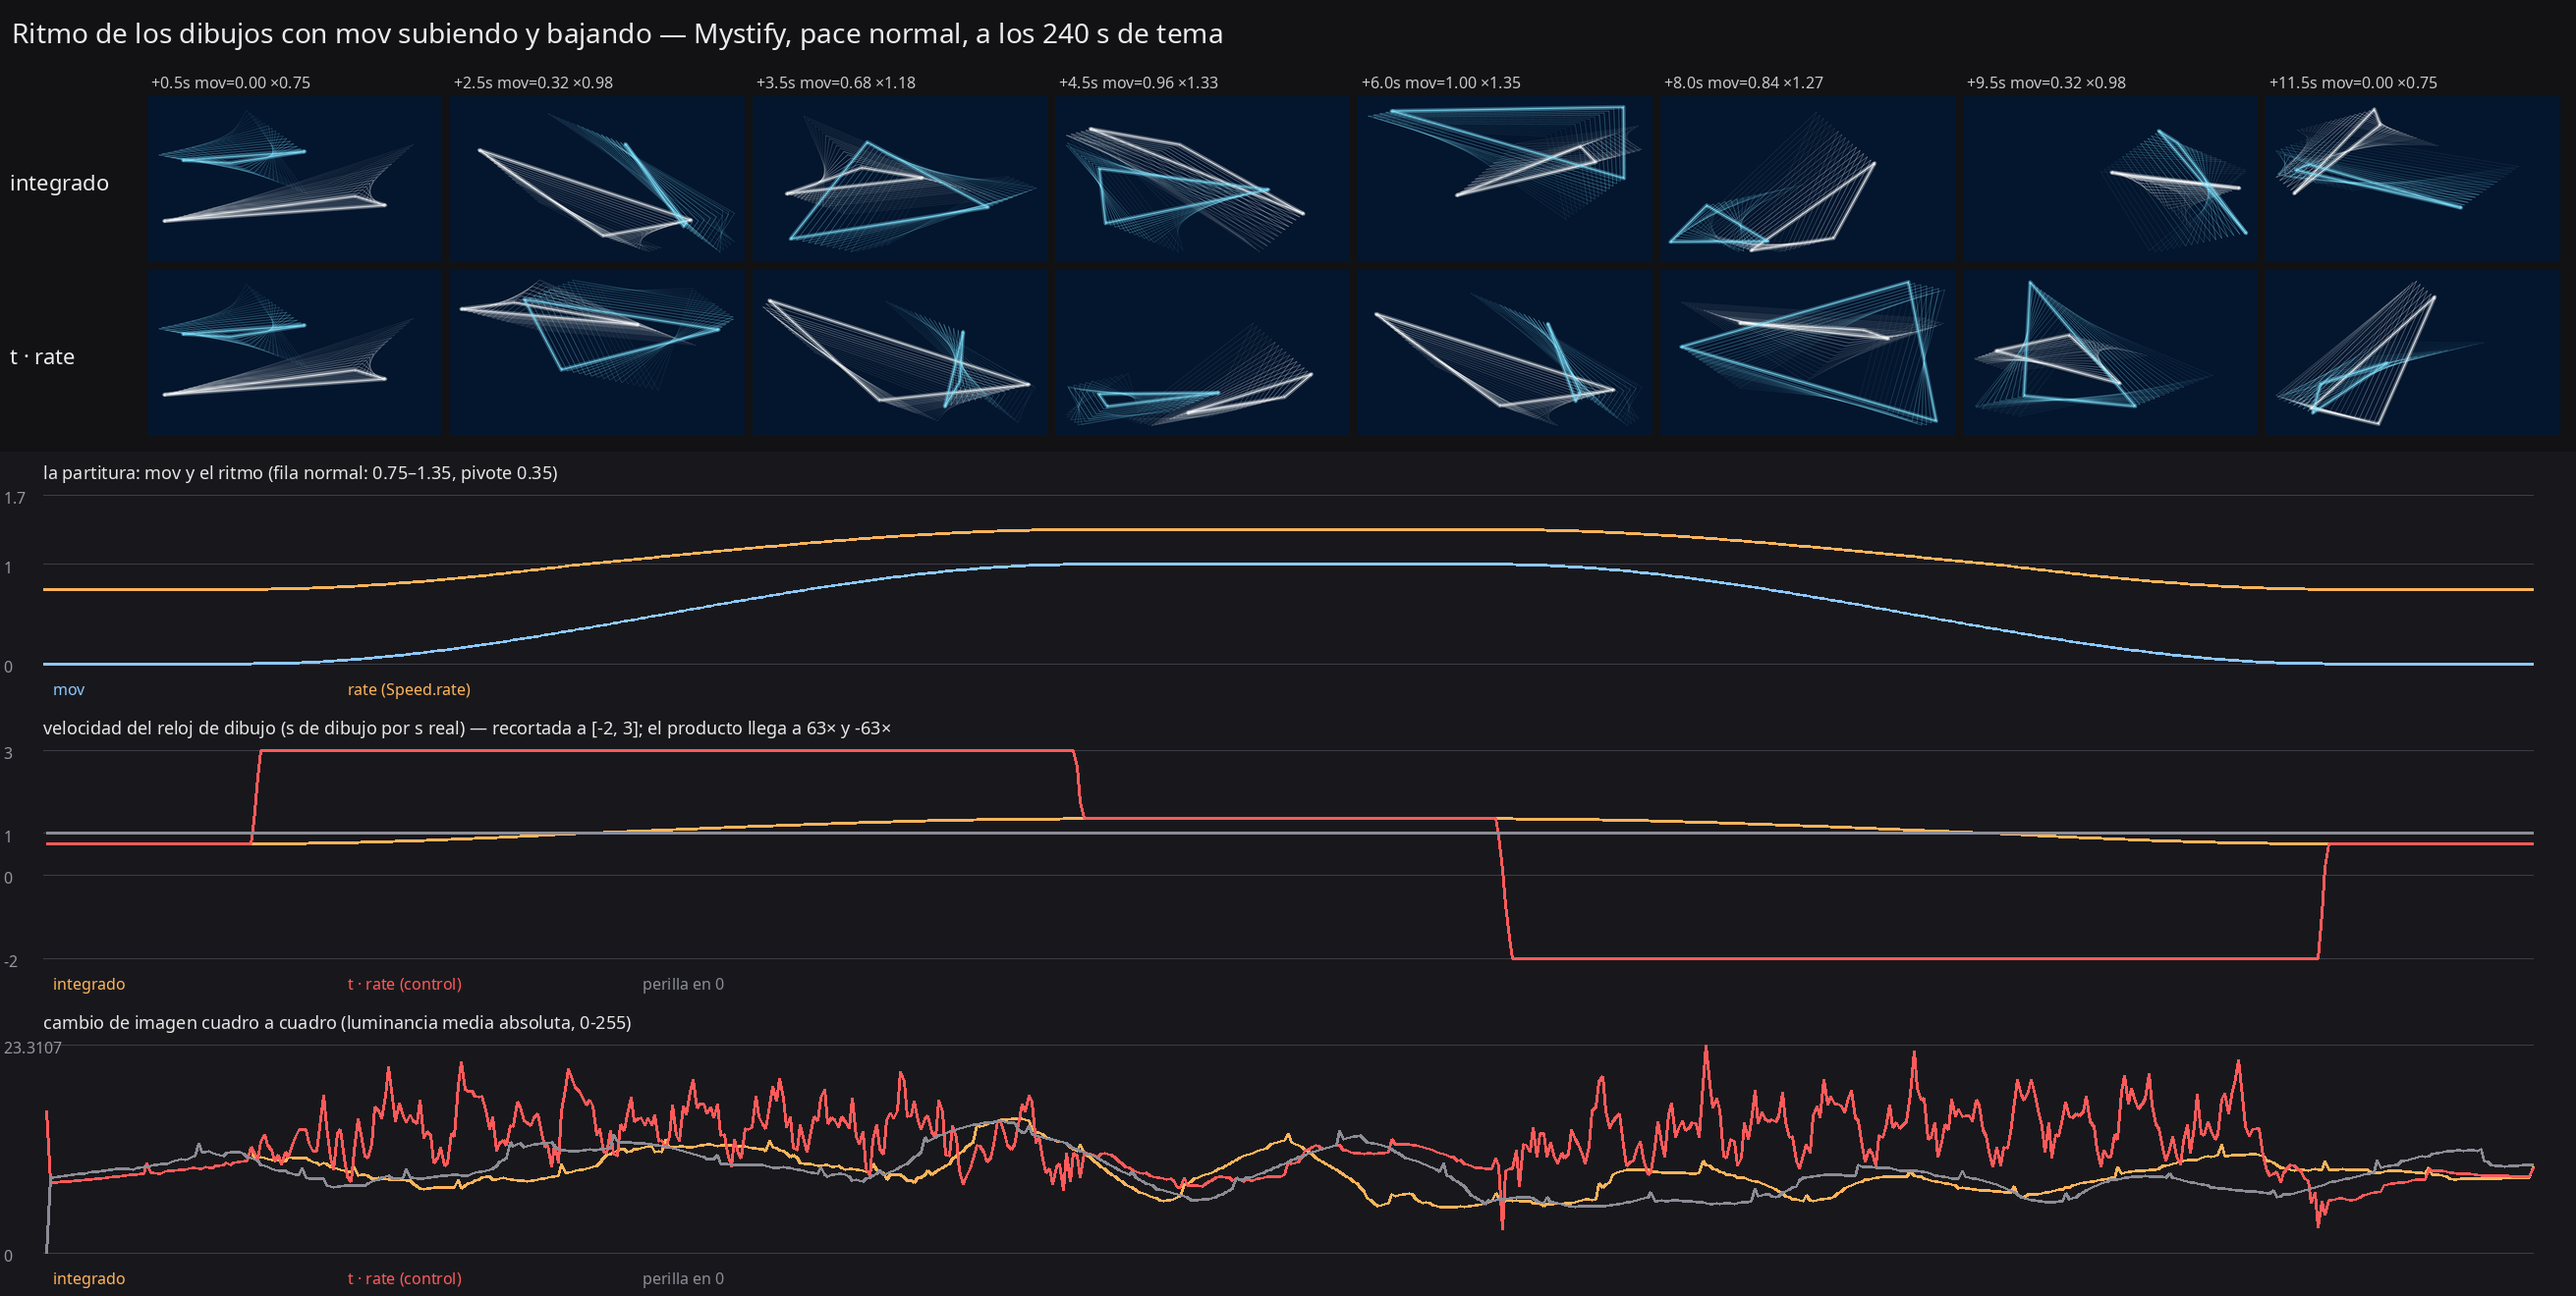
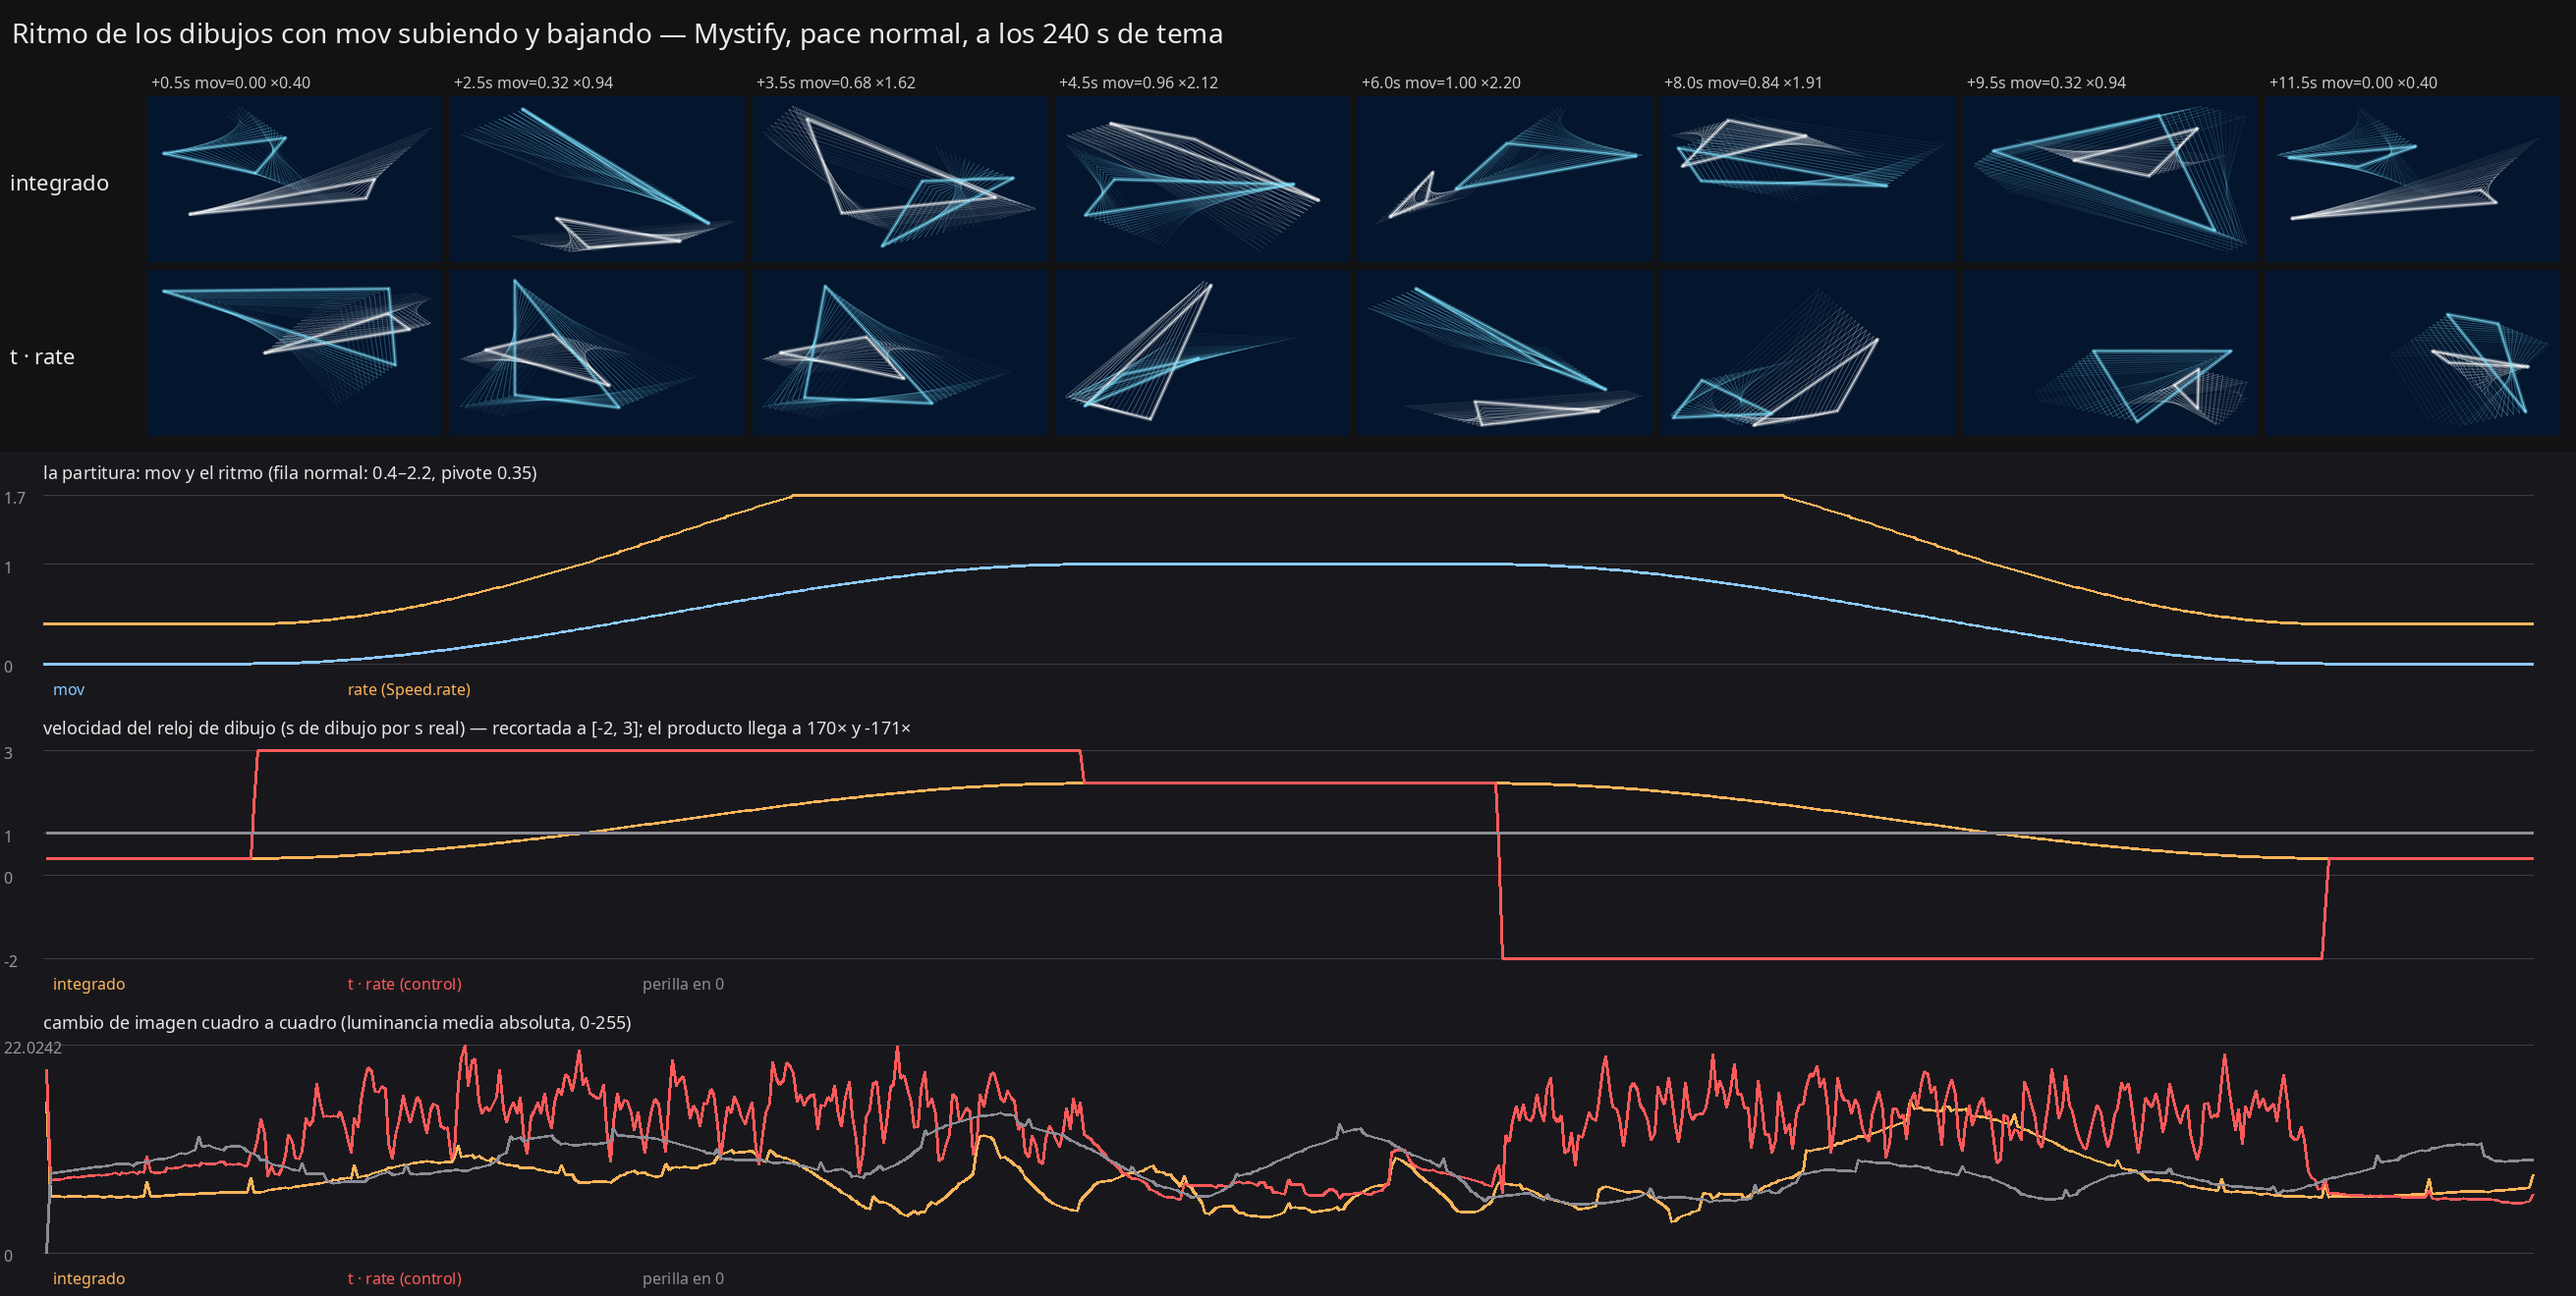
docs(movimiento-visual): ronda 2, mov medido y percentiles

diff --git a/docs/tanda8-estado/movimiento-visual.md b/docs/tanda8-estado/movimiento-visual.md
@@ -104,3 +104,22 @@ Resultado, pace normal, 721 cuadros a 60 fps:
   de `movimiento.md` (parejo ≈ 0.2, ocupado ≈ 0.75-0.8), no de haberlo visto.
 - Las entradas y el shader quedaron afuera a propósito (arriba). Si Ferox quiere que la ENTRADA de la
   frase también siga el pasaje, es otra discusión (rompe "UN lenguaje de movimiento").
+
+## Ronda 2: "no se nota" (Ferox, con Vivaldi)
+
+Medido en el sistema vivo (`qs.log` + `.1`, 99 muestras de `mov`, Vivaldi): **p1 0.63, p50 0.73,
+p99 0.80**. `mov` vivía en una franja de 0.17 → con el mapeo absoluto (pivote 0.35) el rate salía
+1.0–1.2 fijo. Cambios (sólo VELOCIDAD; no se tocó frecuencia de cambios ni entradas):
+- **Rangos** (`crtPaceTable`): calm 0.60–1.50, normal 0.40–2.20, wild 0.30–2.80.
+- **Percentiles por tema** (`Speed.newStat/observe/span/fit`): histograma de `mov` (40 bins, decae
+  τ=60 s, se reinicia con `crtTrackSeed++`, muestreado a 10 Hz), p5..p95 estirado a todo el rango
+  (franja mínima 0.20 para no amplificar ruido de un tema parejo), mediana → rate 1 (pivote
+  interpolado a 0.5). Arranque: `conf` = masa/20 s mezcla del mapeo absoluto de antes al estirado.
+  Vivaldi: 0.63→~0.4×, 0.72→1×, 0.80→~2×. `crt.mov_speed` = 0 sigue siendo ritmo 1 exacto.
+  Log de 5 s ahora agrega `span lo-hi`.
+- **Radar y lluvia** (`Motif.qml`) llevaban `mclock × velocidad(level, drive)`: aunque `mclock`
+  ya seguía el rate, la velocidad variable teletransportaba la fase. Ahora ángulo (`radar.angle`) y
+  dos fases (`rain.base`, `rain.kph`) ACUMULADAS con `frameTime · … · rate`.
+- Banco (`render.py sheet`, normal): vel. dibujo 0.40–2.20, desvío vs rate **0.0000**; perilla 0: 1.0;
+  `t·rate` de −171× a +170×. (El banco usa `mov` crudo, no los percentiles: prueba fase, no calibración.)
+- Tests: 769 OK.

diff --git a/docs/NUMEROS-MEDIDOS.md b/docs/NUMEROS-MEDIDOS.md
@@ -219,3 +219,10 @@ Movido tal cual desde `CLAUDE.md` el 2026-09-05.
   cuadro a cuadro (lum. media abs.): integrado 8.98 (máx 15.9), perilla en 0 9.05 (14.8), `t · rate` 12.2
   (23.3). CPU (render + grab, 600 cuadros, dos corridas): perilla en 0 5.38/5.44 ms/cuadro, ritmo andando
   5.48/5.45 — ruido. No medido en el overlay real.
+
+## Distribución real de `mov` (tanda 8, movimiento-visual ronda 2, 2026-09-28)
+
+`qs.log`+`.1` en vivo, Vivaldi/Invierno, 99 muestras (log cada 5 s): p1 0.63 · p5 0.64 · p25 0.67 ·
+p50 0.73 · p75 0.76 · p95 0.78 · p99 0.80. Franja útil 0.17 de 0..1 → por eso el ritmo absoluto casi no
+se notaba (rate 1.0–1.2); ahora se estira por percentiles del tema (`Speed.js`). Un solo tema
+medido: recalibrar con otros géneros si hace falta.
